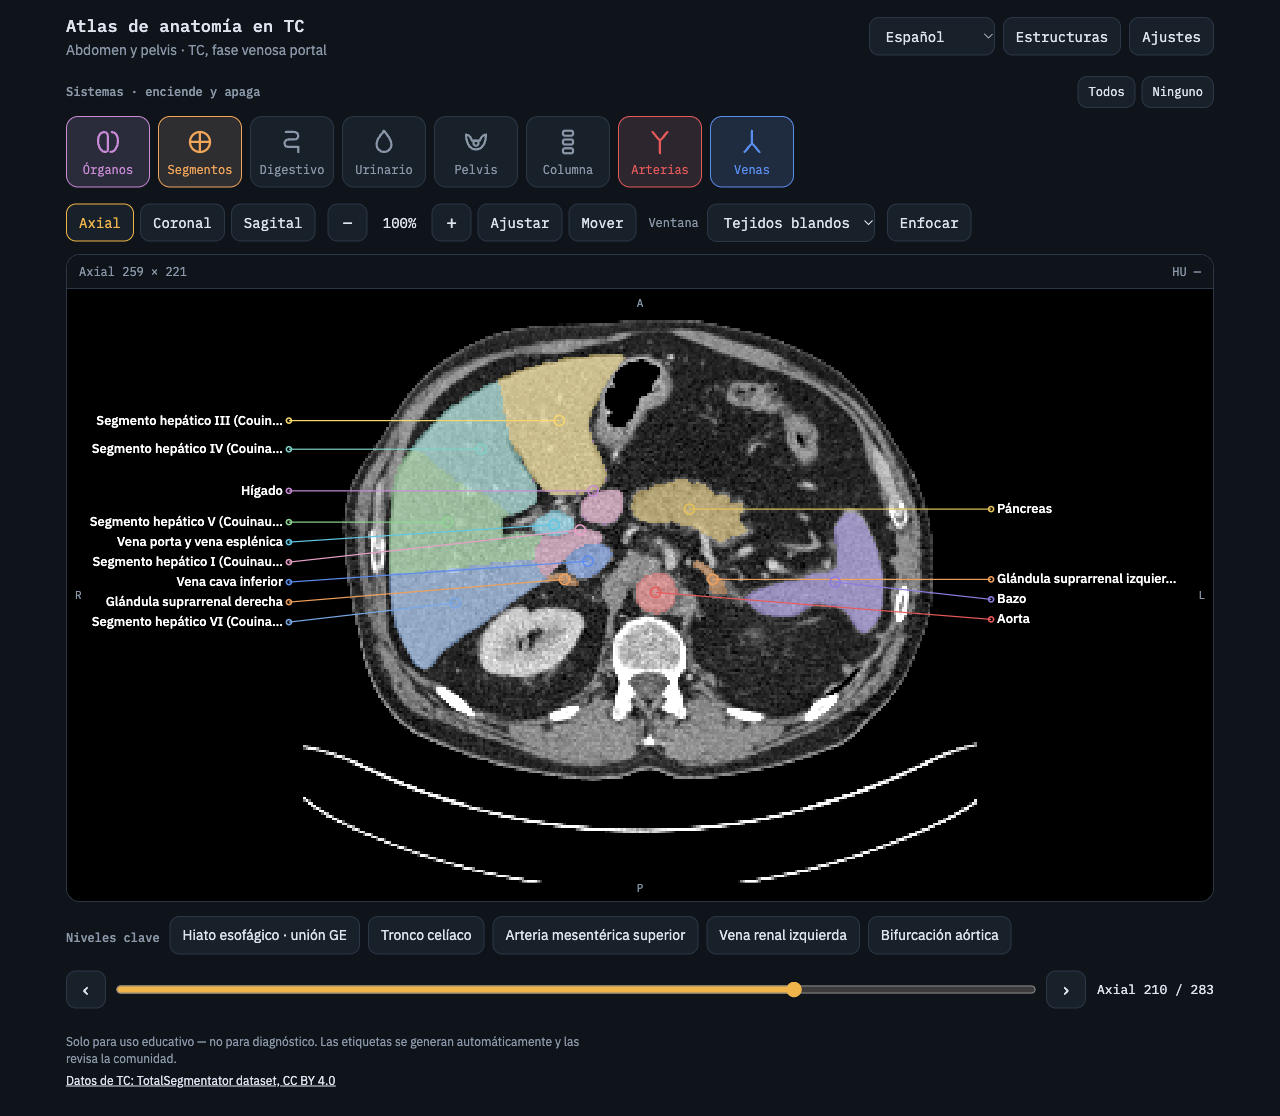
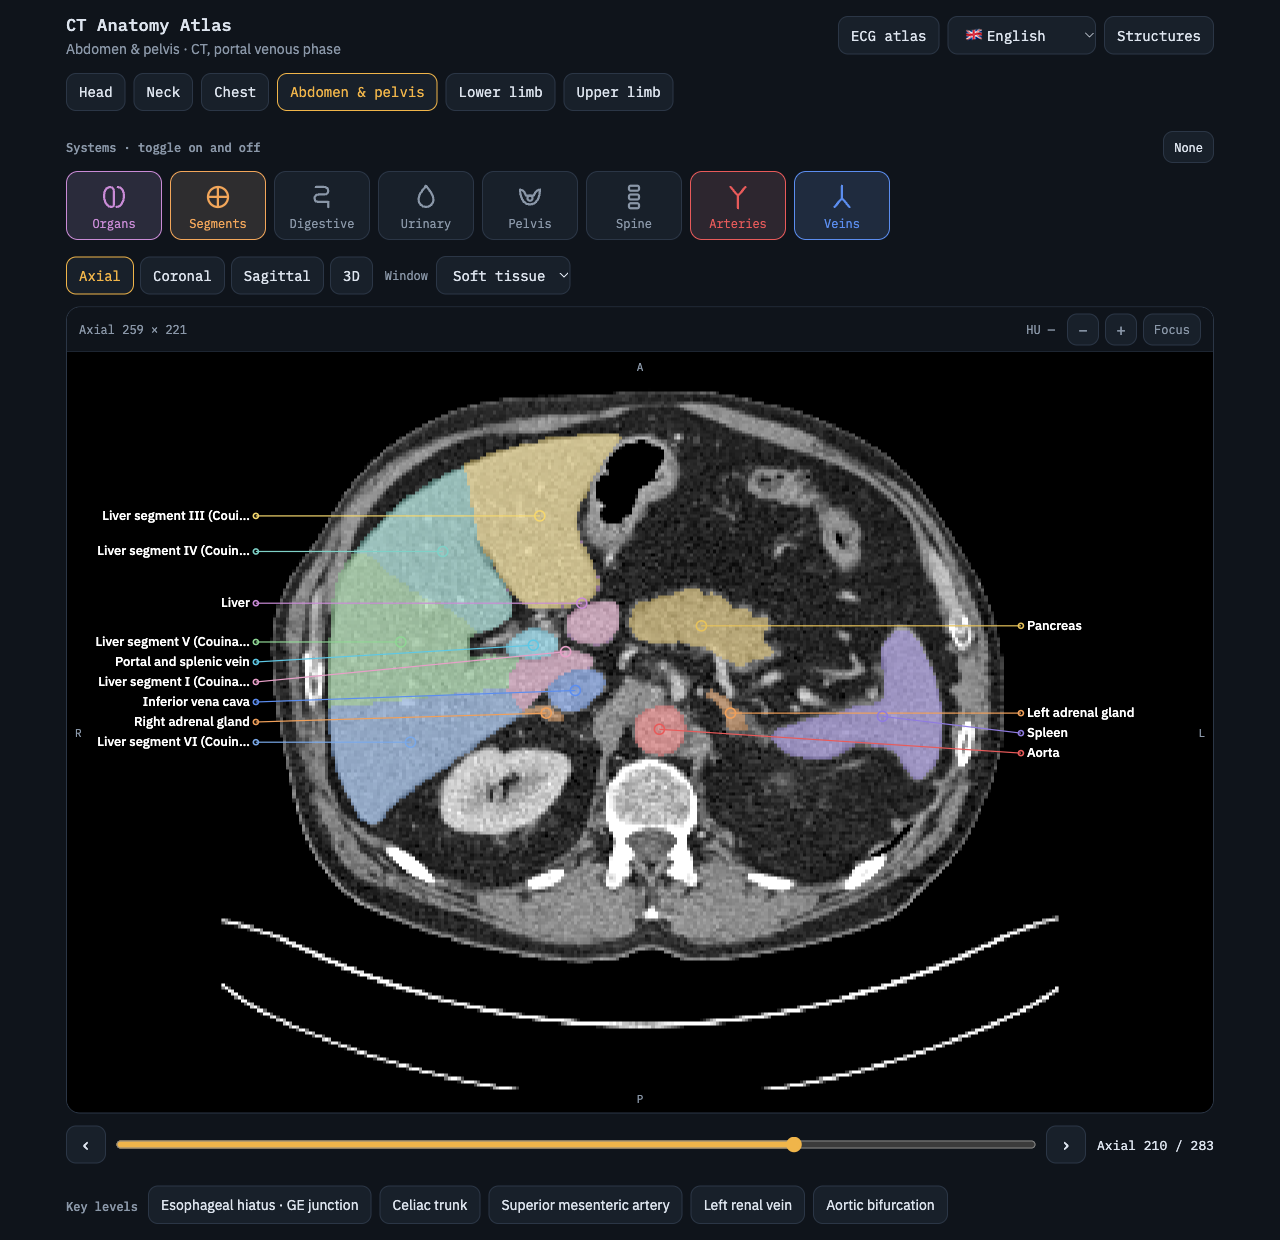
Rewrite the README and show an English screenshot

diff --git a/README.md b/README.md
@@ -2,30 +2,41 @@
 
 # CT Anatomy Atlas
 
-An open, multilingual web atlas of cross-sectional anatomy on real CT scans. Pick a region (head,
-neck, chest, abdomen & pelvis, lower limb, hands) and scroll through it in axial, coronal or sagittal view. Switch coloured
-structures on and off by system, read the labels, and jump to key levels such as the lateral
-ventricles, the thyroid cartilage or the celiac trunk.
+A free, open, multilingual web atlas of anatomy on real CT scans, with a companion ECG atlas.
+It's for medical students, doctors and anyone learning anatomy.
 
-It's for medical students, doctors, and anyone learning anatomy. **Educational use only — not
-for diagnosis.** The labels are generated automatically and reviewed by the community. If
-you spot a mistake, use "Report a problem" on the structure.
+**Educational use only. Not for diagnosis.** Labels are generated automatically and reviewed by
+the community. If you spot a mistake, use "Report a problem" on the structure.
 
-![Axial slice at the celiac trunk with liver segments, vessels and labels](assets/screenshot.png)
+![Axial CT at the celiac trunk: liver segments, pancreas, spleen, aorta and IVC, labelled](assets/screenshot.png)
 
-The landing page links both atlases. The CT atlas is `ct.html`. The **ECG atlas** (`ecg.html`) has 29 real
-12-lead ECGs from PTB-XL, grouped by rhythm, conduction, hypertrophy, ischaemia and more, drawn as
-sharp vector graphics on standard paper, with 3×4 or 12×1 layouts, speed and gain, calipers,
-P, QRS, ST and T wave shading (each on or off), and a quiz mode that hides the diagnosis until you open the interpretation.
-It teaches how to *find* the pathology:
+## What's inside
 
-- **Study:** under each tracing, a reading card walks the same steps every time (rate, rhythm,
-  axis, PR, QRS, QTc, ST) with the measured value, the normal range and a verdict, followed by
-  clues for the pathology. Tapping a clue lights up the leads that show it.
-- **Learn:** a scored checklist on a random ECG. Answer each step, get feedback with the
-  measurement and a teaching note, then pick the diagnosis from four.
+**CT atlas** (`ct.html`)
 
-Languages: English, Deutsch, Español, العربية, Français, Italiano, Nederlands.
+- Six regions, each a real scan: head, neck, chest, abdomen & pelvis, lower limb, upper limb (hands & wrists).
+- Scroll in axial, coronal or sagittal. Zoom, pan, and choose the window (soft tissue, lung, bone…).
+- Coloured structures grouped by system (organs, liver segments, arteries, veins, spine…), each
+  system toggled on and off, with labels pinned to the image.
+- Key levels jump straight to landmarks such as the lateral ventricles, the thyroid cartilage or
+  the celiac trunk.
+- A rotatable 3D view of the labelled structures, loaded only when you open it.
+- Every view has its own link, so you can share the exact slice.
+
+**ECG atlas** (`ecg.html`)
+
+- 29 real 12-lead ECGs from PTB-XL, grouped by rhythm, conduction, hypertrophy, ischaemia and more.
+- Sharp vector tracings on standard paper: 3×4 or 12×1 layout, speed and gain, calipers, and
+  P / QRS / ST / T shading, each on or off.
+- **Study:** a reading card under each tracing walks rate, rhythm, axis, PR, QRS, QTc and ST, with
+  the measured value, the normal range and a verdict, then clues for the diagnosis. Tap a clue to
+  light up the leads that show it.
+- **Learn:** a scored checklist on a random ECG, with feedback at each step, then pick the
+  diagnosis from four.
+- Quiz mode hides the diagnosis until you open the interpretation.
+
+**Languages:** English, Deutsch, Español, العربية, Français, Italiano, Nederlands.
+Scans are always shown radiologically (patient right on the viewer's left), in every language.
 
 ## Run it locally
 
@@ -33,47 +44,53 @@ Languages: English, Deutsch, Español, العربية, Français, Italiano, Nede
 python3 -m http.server -d site 8000   # then open http://localhost:8000
 ```
 
-There's no build step and there are no dependencies. `site/` is the whole website.
+No build step, no dependencies: `site/` is the whole website.
 
 ## Deploy
 
-Upload `site/` to any static host (GitHub Pages, Cloudflare Pages, Netlify, …). Each case is
+Upload `site/` to any static host (GitHub Pages, Cloudflare Pages, Netlify…). Each CT case is
 3–20 MB compressed and loads in the browser.
 
 ## Tests
 
 ```sh
-npm test                      # viewer modules (Node built-in test runner, no npm install needed)
+npm test                      # viewer modules (Node's built-in runner, no npm install)
+
 uv venv -p 3.12 .venv && uv pip install -p .venv -r pipeline/requirements.txt
 .venv/bin/pytest pipeline -q  # case pipeline
 ```
 
-## Adding a case, fixing a label, adding a language
+## How it's built
 
-See [CONTRIBUTING.md](CONTRIBUTING.md).
+An offline Python pipeline (`pipeline/`) turns open-dataset CTs and their segmentations into
+compact case files in `site/cases/`. The static site reslices and labels them in the browser.
+ECGs are converted the same way into `site/ecg/`.
+
+## Contributing
+
+Adding a case, fixing a label or translation, adding a language: see
+[CONTRIBUTING.md](CONTRIBUTING.md).
 
 ## Credits and licences
 
-- CT data and segmentations come from the **TotalSegmentator dataset**
-  ([doi:10.5281/zenodo.6802613](https://doi.org/10.5281/zenodo.6802613)), licensed
+- **CT data and segmentations:** the
+  [TotalSegmentator dataset](https://doi.org/10.5281/zenodo.6802613),
   [CC BY 4.0](https://creativecommons.org/licenses/by/4.0/). Case `s0010` uses that dataset's
-  masks, plus Couinaud liver segments generated with the open `liver_segments` model from
-  [TotalSegmentator](https://github.com/wasserth/TotalSegmentator) (Apache-2.0).
-  The other cases add masks from more TotalSegmentator models, listed per case in
-  `pipeline/cases/<id>.json` (`tasks`) and in each case's `meta.json` (`source.tasks`). Open
-  models (Apache-2.0): `ventricle_parts`, `head_glands_cavities`, `oculomotor_muscles`,
-  `headneck_bones_vessels`, `head_muscles`, `headneck_muscles`, `lung_vessels`. Licensed models:
-  `brain_structures` (head `s1508`), `heartchambers_highres` (chest `s0739`),
-  `appendicular_bones` (lower limb `s0783`, hands `s1489`) and `thigh_shoulder_muscles` (lower
-  limb `s0783`). Their author, Jakob Wasserthal, gave permission on 2026-11-19 to publish their
-  outputs in this free, non-commercial atlas. Rebuilding those
-  cases needs your own TotalSegmentator licence key; the others build with open models only.
-- ECGs come from **PTB-XL** (Wagner et al., PhysioNet,
-  [doi:10.13026/kfzx-aw45](https://doi.org/10.13026/kfzx-aw45)), licensed
+  masks plus Couinaud liver segments from the open `liver_segments` model of
+  [TotalSegmentator](https://github.com/wasserth/TotalSegmentator) (Apache-2.0). The other cases
+  add masks from more TotalSegmentator models, listed per case in `pipeline/cases/<id>.json`
+  (`tasks`) and each case's `meta.json` (`source.tasks`).
+  - Open models (Apache-2.0): `ventricle_parts`, `head_glands_cavities`, `oculomotor_muscles`,
+    `headneck_bones_vessels`, `head_muscles`, `headneck_muscles`, `lung_vessels`.
+  - Licensed models: `brain_structures` (head `s1508`), `heartchambers_highres` (chest `s0739`),
+    `appendicular_bones` (lower limb `s0783`, hands `s1489`) and `thigh_shoulder_muscles` (lower
+    limb `s0783`). Their author, Jakob Wasserthal, gave permission on 2026-11-19 to publish their
+    outputs in this free, non-commercial atlas. Rebuilding those cases needs your own
+    TotalSegmentator licence key; the others build with open models only.
+- **ECGs:** [PTB-XL](https://doi.org/10.13026/kfzx-aw45) (Wagner et al., PhysioNet),
   [CC BY 4.0](https://creativecommons.org/licenses/by/4.0/). Interpretations are the dataset's
-  cardiologist-validated SCP-ECG statements. P/QRS/T boundaries come from **PTB-XL+**
-  ([doi:10.13026/g6h6-7g88](https://doi.org/10.13026/g6h6-7g88), CC BY 4.0), computed
-  automatically by ECGDeli. P bands are hidden for AF, flutter, SVT and 2nd/3rd-degree AV block.
-  The reading card's measurements are PTB-XL+'s GE 12SL features (same DOI, CC BY 4.0). Clues are
-  teaching notes reviewed by the community: use "Report a problem" next to any clue.
-- Code: [MIT](LICENSE).
+  cardiologist-validated SCP-ECG statements. Wave boundaries and the reading card's measurements
+  (ECGDeli and GE 12SL) come from [PTB-XL+](https://doi.org/10.13026/g6h6-7g88), CC BY 4.0.
+  P bands are hidden for AF, flutter, SVT and 2nd/3rd-degree AV block. Clues are teaching notes
+  reviewed by the community: use "Report a problem" next to any clue.
+- **Code:** [MIT](LICENSE).
